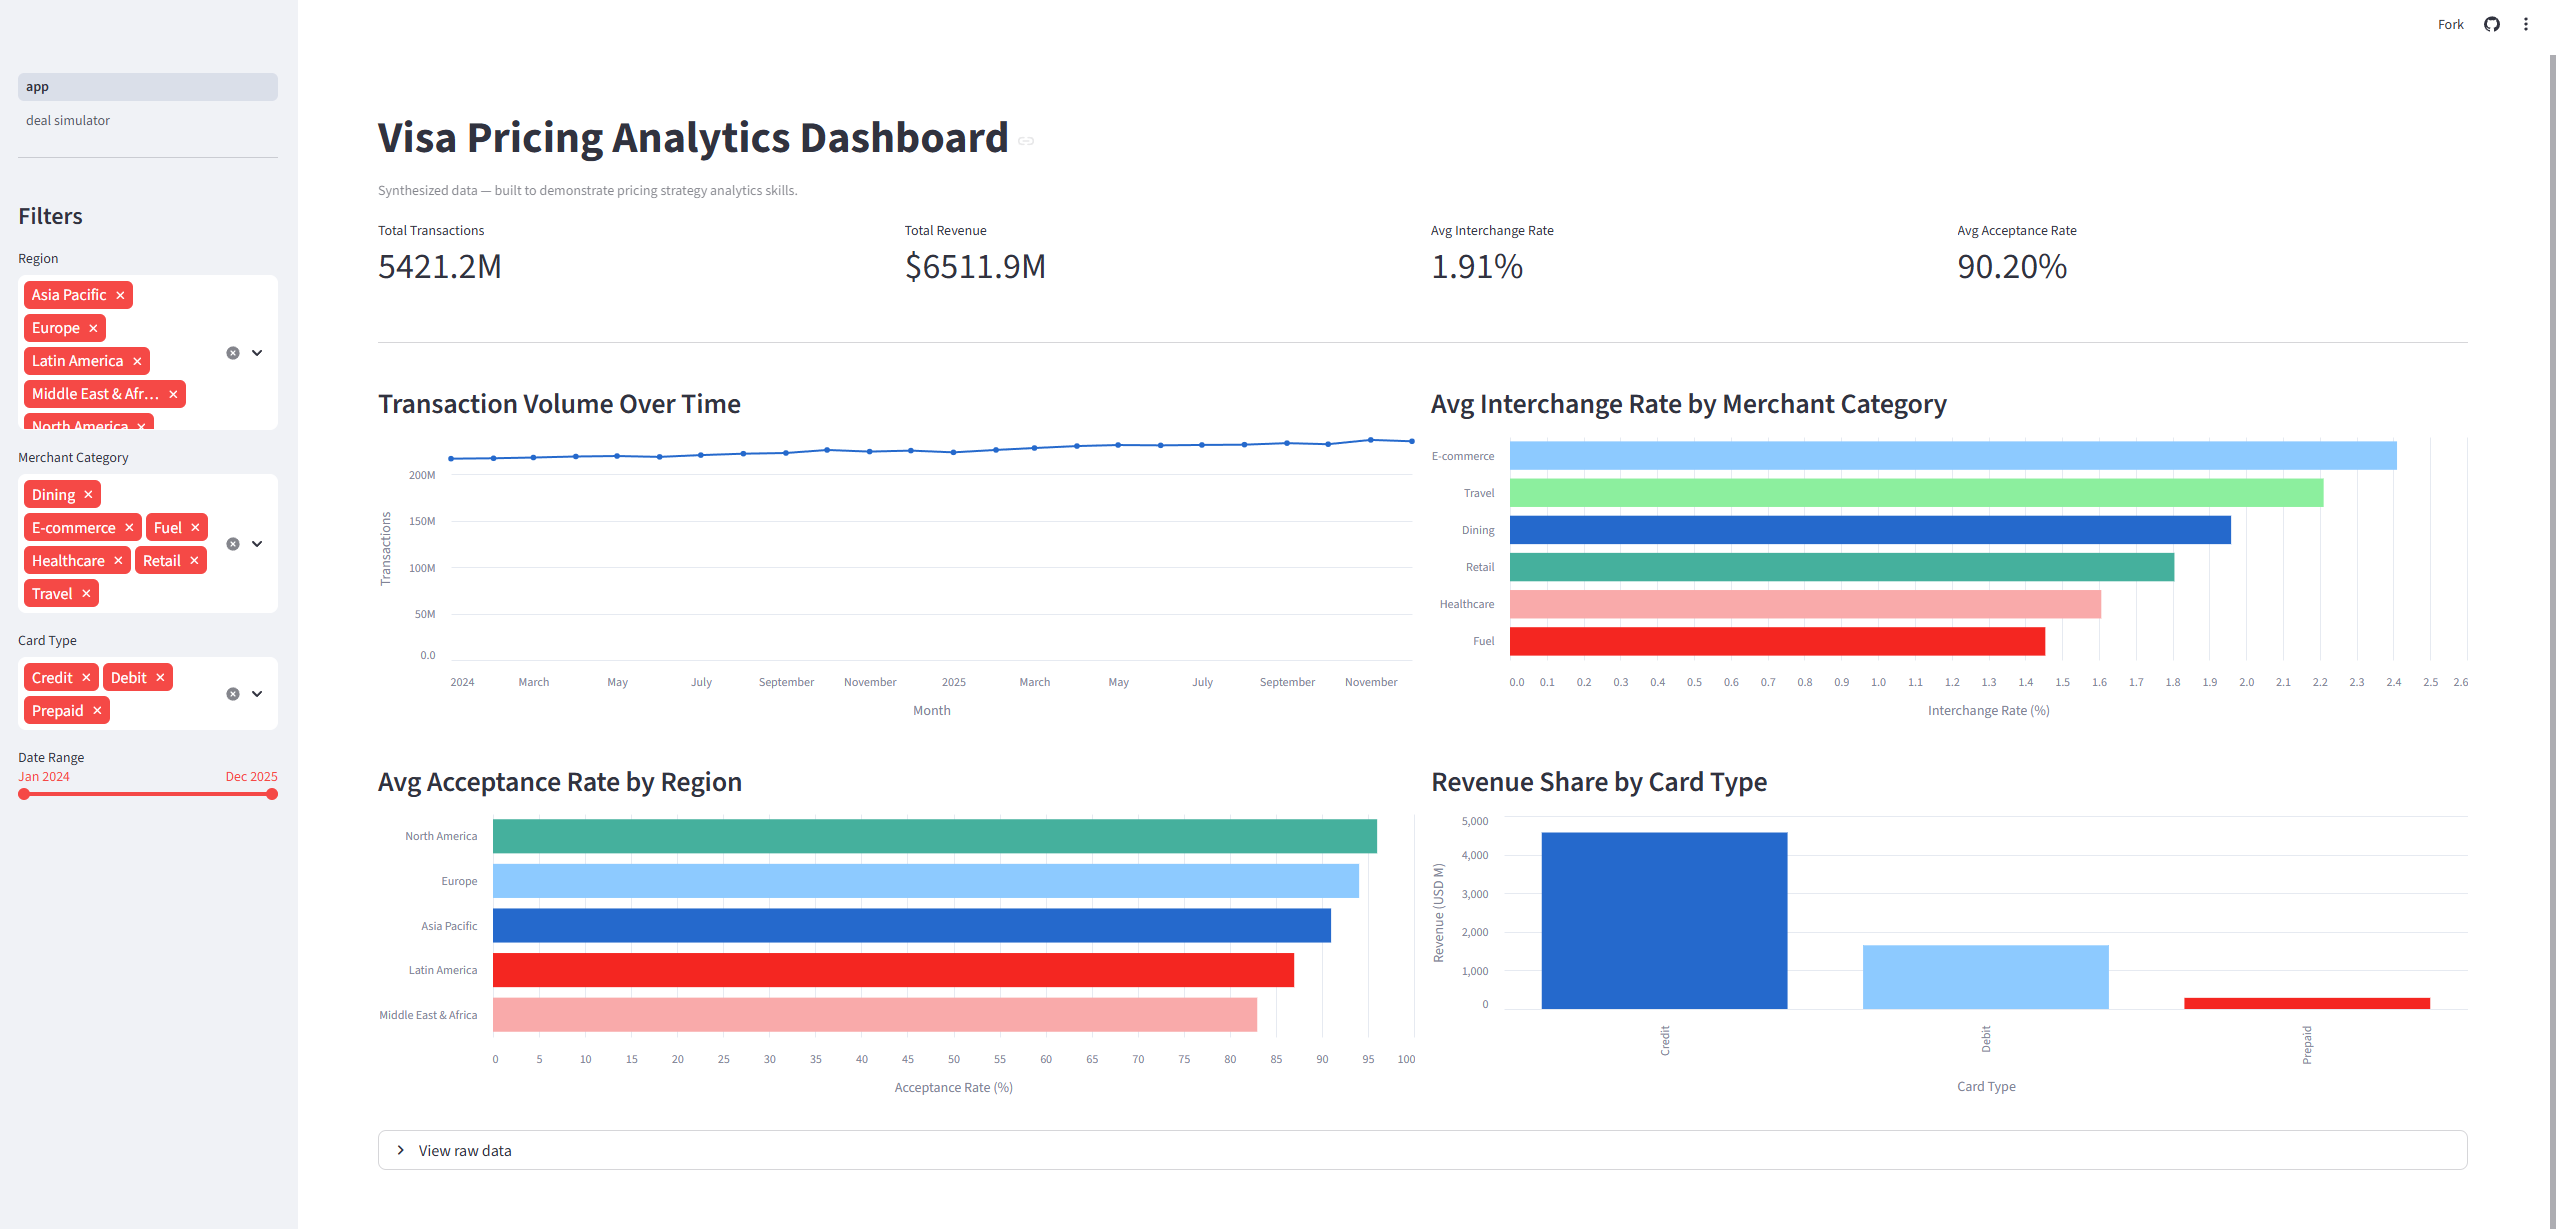
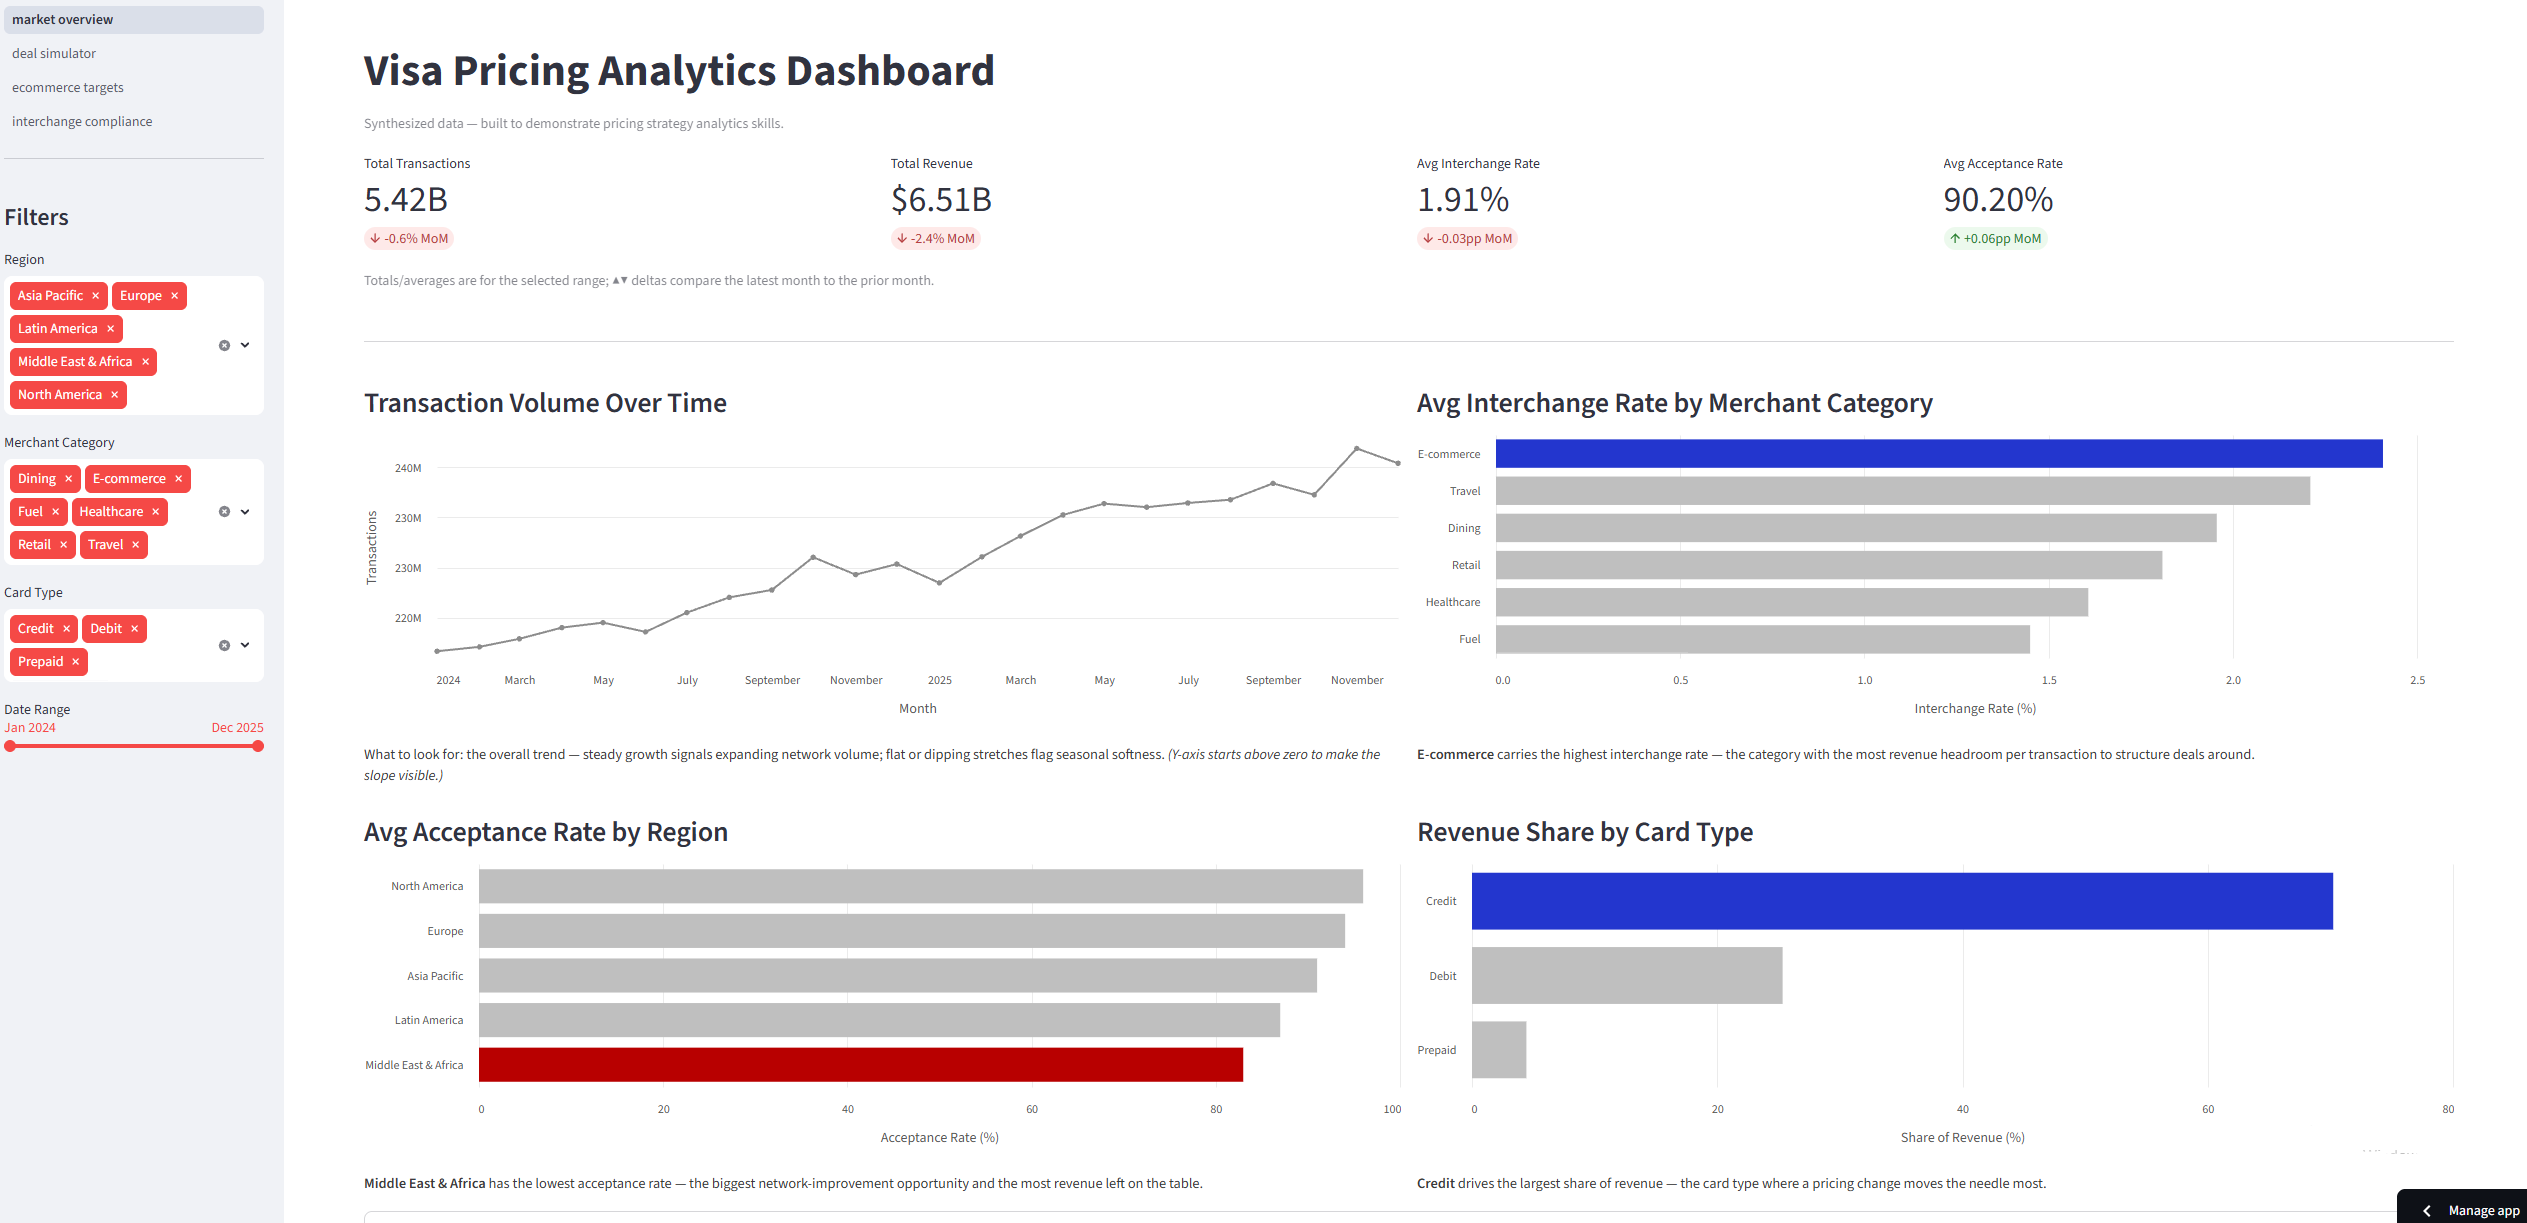
docs: modern README layout (link -> 4 screenshots -> explanation -> insights) + refreshed screenshots

diff --git a/README.md b/README.md
@@ -1,54 +1,50 @@
 # Visa Pricing Analyst
 
-This project models the pricing strategy analytics work performed by Visa's Global Pricing Strategy team. It synthesises 2,160 rows of transaction data across 5 regions, 6 merchant categories, and 3 card types to surface interchange rate trends, merchant acceptance patterns, and deal P&L economics. The centrepiece is an interactive deal simulator that models the net revenue, NPV, and break-even volume of a merchant acceptance deal — the same kind of tool a Pricing Strategy Analyst uses to evaluate and structure client deals.
+### [Live Dashboard →](https://visa-pricing-analyst-k6dawusfsc9vetupcdqhnw.streamlit.app/)
 
-## Live Dashboard
+![Market Overview — KPIs with month-over-month deltas, interchange by category, acceptance by region, and revenue mix](docs/market-overview.png)
+![Deal Simulator — model net revenue, NPV, and break-even volume for a merchant acceptance deal](docs/deal-simulator.png)
+![E-commerce Targets — merchants ranked by an opportunity score, with a volume-vs-acceptance scatter](docs/ecommerce-targets.png)
+![Interchange Compliance Monitor — audits assessed interchange vs the published schedule and flags the financial impact](docs/interchange-compliance.png)
 
-**URL:** https://visa-pricing-analyst-k6dawusfsc9vetupcdqhnw.streamlit.app/
+**A four-page pricing-strategy dashboard: market analytics, an interactive deal P&L simulator, a ranked merchant-targeting engine, and an interchange-compliance monitor that flags mis-assessments and their financial impact.**
+
+---
+
+This project models the pricing strategy and interchange compliance work performed by Visa's Global Pricing Strategy team. It synthesises 2,160 rows of transaction data across 5 regions, 6 merchant categories, and 3 card types to surface interchange rate trends, merchant acceptance patterns, and deal P&L economics. The **deal simulator** models the net revenue, NPV, and break-even volume of a merchant acceptance deal; the **targeting engine** ranks merchants by an opportunity score; and the **compliance monitor** audits assessed interchange against the published rate schedule and quantifies the financial impact of any deviation — the same kinds of tools a Pricing Strategy / Interchange Compliance Analyst uses day to day. Every chart follows *Storytelling with Data* principles (muted palette with a single purposeful accent, decluttered axes, and an insight line stating the takeaway).
+
+## Key Insights
+
+**Descriptive (what does the data show?):** E-commerce and Travel carry the highest interchange rates at 2.4% and 2.2% respectively, while Fuel sits at 1.45% — a 66% spread across categories that represents significant revenue variation per transaction.
+
+**Diagnostic (why does the gap exist?):** North America leads merchant acceptance at 96% while Middle East & Africa sits at 83%, a 13-point gap that persists across all merchant categories — pointing to network maturity and infrastructure differences rather than category-specific friction.
+
+**Recommendation:** Target E-commerce deal negotiations with volume-for-discount structures first — the combination of high interchange headroom (2.4%) and strong digital growth means larger deals can absorb meaningful discounts while remaining NPV-positive. Use the Deal Simulator to model the exact break-even volume before committing to a discount tier.
+
+- **Who to target:** The E-commerce Merchant Targets page scores and ranks the full pipeline. Top-tier deals: **NovaMart** (North America, 180M txns/yr) on volume, **Apex Digital** (Europe, 18% YoY growth) on growth trajectory, and **TechDirect** (Asia Pacific, 22% growth, 89% acceptance) on the combination of growth and network gap.
+
+- **Deal structure:** Lead with a 10–15% discount off the 2.4% standard rate in exchange for a minimum annual volume commitment. At 10% discount, a 50M transaction/year merchant needs only ~5.6M additional transactions to break even. Avoid discounts above 20% without a 3–5 year term to ensure NPV recovery.
+
+- **Compliance:** At a 15 bps tolerance the monitor flags 43 mis-assessed segments — $26.1M of interchange at risk (net −$2.2M under-assessed), concentrated in Healthcare. The review queue surfaces the largest-dollar exceptions first so the highest-impact discrepancies are investigated before they compound.
 
 ## Job Posting
 
-- **Role:** Analyst, Pricing Strategy
+- **Role:** Analyst, Pricing Strategy / Global Interchange Strategy & Compliance
 - **Company:** Visa Inc.
 
-This project directly demonstrates the role's core requirements: rigorous quantitative analysis, financial modeling, and the ability to synthesise large datasets into actionable pricing recommendations for business leaders.
+This project demonstrates the role's core requirements: rigorous quantitative analysis, financial modeling, interchange-assessment monitoring, and the ability to synthesise large datasets into actionable pricing and compliance recommendations for business leaders.
 
 ## Tech Stack
 
 | Layer | Tool |
 |---|---|
 | Data | Synthesized CSV — Python generator script |
-| Data Processing | Pandas |
-| Financial Model | Python pure function (`compute_deal_pnl`) |
-| Visualisation | Altair |
+| Data Processing | Pandas / NumPy |
+| Pure functions | `compute_deal_pnl`, `compute_opportunity_score`, `compute_compliance_exceptions` (no Streamlit dependency) |
+| Visualisation | Altair (Storytelling-with-Data styling via `utils/chart_style.py`) |
 | Dashboard | Streamlit (four-page multipage app) |
-| Testing | pytest (8 unit tests) |
+| Testing | pytest (23 unit tests) |
 | Deployment | Streamlit Community Cloud |
-
-## Pipeline Diagram
-
-```mermaid
-flowchart TD
-    CSV[("visa_pricing_metrics.csv\n2,160 rows")]
-
-    CSV -->|"@st.cache_data"| P1["1_market_overview.py\n📊 Market Overview\nKPI cards · Volume trend\nInterchange · Acceptance · Revenue"]
-    CSV -->|"@st.cache_data"| P2["pages/2_deal_simulator.py\n🤝 Deal Simulator"]
-    CSV -->|"ecommerce_merchants.csv"| P3["pages/3_ecommerce_targets.py\n🎯 E-commerce Targets"]
-
-    P2 --> INPUTS["User Inputs\nMerchant · Category · Region\nVolume · Discount · Growth · Term"]
-    INPUTS --> FN["compute_deal_pnl()\nutils/deal_pnl.py\nPure function — no Streamlit dependency"]
-    FN --> OUT1["KPI Cards\nNet Revenue · NPV · Break-even uplift"]
-    FN --> OUT2["Year-by-Year P&L Table"]
-    FN --> OUT3["Gross vs Net Revenue Bar Chart"]
-    FN --> OUT4["Verdict Banner\nFavorable · Conditional · Requires Approval"]
-
-    P2 -->|"derives baseline\ninterchange rate"| CSV
-
-    P3 --> SCORE["compute_opportunity_score()\nutils/opportunity_score.py\nPure function — no Streamlit dependency"]
-    SCORE --> OUT5["Ranked Merchant Table\nHigh · Medium · Low priority"]
-    SCORE --> OUT6["Opportunity Score Bar Chart"]
-    SCORE --> OUT7["Volume vs Acceptance Rate Scatter"]
-```
 
 ## Data Schema
 
@@ -66,30 +62,25 @@ The dataset (`streamlit_app/data/visa_pricing_metrics.csv`) has 2,160 rows — o
 | `revenue_usd` | float | Revenue = volume × avg_txn × interchange_rate |
 | `acceptance_rate` | float | Share of attempted transactions approved |
 
-## Dashboard Preview
+## Pipeline Diagram
 
-### Market Overview
-![Market Overview](docs/market-overview.png)
+```mermaid
+flowchart TD
+    CSV[("visa_pricing_metrics.csv\n2,160 rows")]
 
-### Deal Simulator
-![Deal Simulator](docs/deal-simulator.png)
+    CSV -->|"@st.cache_data"| P1["1_market_overview.py\n📊 Market Overview"]
+    CSV -->|"@st.cache_data"| P2["pages/2_deal_simulator.py\n🤝 Deal Simulator"]
+    CSV -->|"ecommerce_merchants.csv"| P3["pages/3_ecommerce_targets.py\n🎯 E-commerce Targets"]
+    CSV -->|"@st.cache_data"| P4["pages/4_interchange_compliance.py\n🛡️ Interchange Compliance"]
 
-### Interchange Compliance Monitor
-Audits assessed interchange against the published rate schedule, flags deviations beyond a configurable tolerance, and quantifies the financial impact (over- vs under-assessment) — with a management-review queue. Tailored to Visa's Global Interchange Strategy / Compliance work.
+    P2 --> FN["compute_deal_pnl()\nutils/deal_pnl.py"]
+    P3 --> SCORE["compute_opportunity_score()\nutils/opportunity_score.py"]
+    P4 --> COMP["compute_compliance_exceptions()\nutils/compliance.py"]
 
-## Key Insights
-
-**Descriptive (what does the data show?):** E-commerce and Travel carry the highest interchange rates at 2.4% and 2.2% respectively, while Fuel sits at 1.45% — a 66% spread across categories that represents significant revenue variation per transaction.
-
-**Diagnostic (why does the gap exist?):** North America leads merchant acceptance at 96% while Middle East & Africa sits at 83%, a 13-point gap that persists across all merchant categories — pointing to network maturity and infrastructure differences rather than category-specific friction.
-
-**Recommendation:** Target E-commerce deal negotiations with volume-for-discount structures first — the combination of high interchange headroom (2.4%) and strong digital growth trajectory means larger deals can absorb meaningful discounts while remaining NPV-positive. Use the Deal Simulator to model the exact break-even volume before committing to a discount tier.
-
-- **Who to target:** The E-commerce Merchant Targets page scores and ranks the full pipeline. Top-tier deals: **NovaMart** (North America, 180M txns/yr) on volume, **Apex Digital** (Europe, 18% YoY growth) on growth trajectory, and **TechDirect** (Asia Pacific, 22% growth, 89% acceptance) on the combination of growth and network gap. Middle East & Africa merchants carry the lowest acceptance rates (82–84%) but insufficient volume to score in the top tier — pointing to an infrastructure investment case rather than a discount deal.
-
-- **Deal structure:** Lead with a 10–15% discount off the 2.4% standard rate in exchange for a minimum annual volume commitment. At 10% discount, a 50M transaction/year merchant needs only 5.6M additional transactions to break even — a realistic uplift ask for a growing e-commerce player. Avoid discounts above 20% without a 3–5 year term to ensure NPV recovery.
-
-- **Risks:** E-commerce interchange premiums depend on fraud rates staying controlled — any deterioration in authorization rates erodes the margin that makes the discount viable. Deal terms should include acceptance rate floor clauses. Volume commitments should be measured on net approved transactions, not gross attempts.
+    FN --> OUT1["Net Revenue · NPV · Break-even"]
+    SCORE --> OUT2["Ranked targets · Opportunity scatter"]
+    COMP --> OUT3["Compliance KPIs · $ at risk\nTrend · Concentration · Review queue"]
+```
 
 ## Setup & Reproduction
 
@@ -107,7 +98,7 @@ streamlit run 1_market_overview.py
 pytest
 ```
 
-To regenerate the dataset from scratch:
+To regenerate the dataset from scratch (includes the injected compliance anomalies):
 
 ```bash
 cd streamlit_app
@@ -120,12 +111,13 @@ python generate_data.py
     ├── streamlit_app/
     │   ├── 1_market_overview.py     # Page 1: Market Overview dashboard
     │   ├── pages/
-    │   │   ├── 2_deal_simulator.py       # Page 2: Deal Simulator
-    │   │   ├── 3_ecommerce_targets.py    # Page 3: E-commerce Merchant Targets
+    │   │   ├── 2_deal_simulator.py          # Page 2: Deal Simulator
+    │   │   ├── 3_ecommerce_targets.py       # Page 3: E-commerce Merchant Targets
     │   │   └── 4_interchange_compliance.py  # Page 4: Interchange Compliance Monitor
     │   ├── utils/
     │   │   ├── data_loader.py            # Shared cached CSV loader
-    │   │   ├── deal_pnl.py               # Core financial model (pure function)
+    │   │   ├── chart_style.py            # Shared Storytelling-with-Data chart styling
+    │   │   ├── deal_pnl.py               # Deal P&L model (pure function)
     │   │   ├── opportunity_score.py      # Merchant opportunity scoring (pure function)
     │   │   └── compliance.py             # Interchange compliance audit (pure function)
     │   ├── data/
@@ -133,11 +125,9 @@ python generate_data.py
     │   │   └── ecommerce_merchants.csv
     │   └── generate_data.py         # Synthetic data generator
     ├── tests/
-    │   ├── test_deal_pnl.py              # 8 unit tests for the financial model
-    │   ├── test_opportunity_score.py     # 7 unit tests for the opportunity score function
-    │   └── test_compliance.py            # 8 unit tests for the compliance audit function
+    │   ├── test_deal_pnl.py              # unit tests for the financial model
+    │   ├── test_opportunity_score.py     # unit tests for the opportunity score function
+    │   └── test_compliance.py            # unit tests for the compliance audit function
     ├── docs/
-    │   ├── proposal.md              # Project proposal
-    │   └── pipeline-diagram.md      # Data flow diagram
     ├── pytest.ini                   # Test configuration
     └── README.md